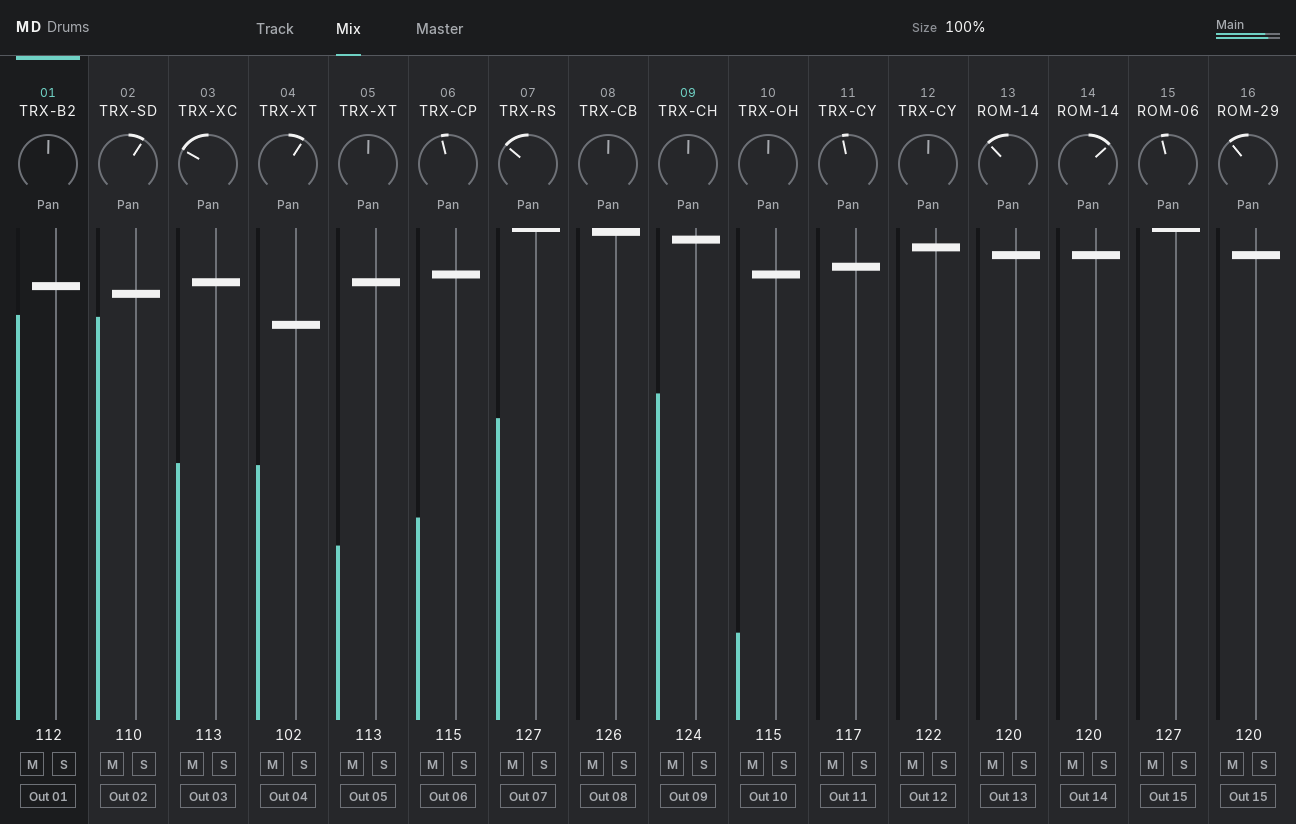
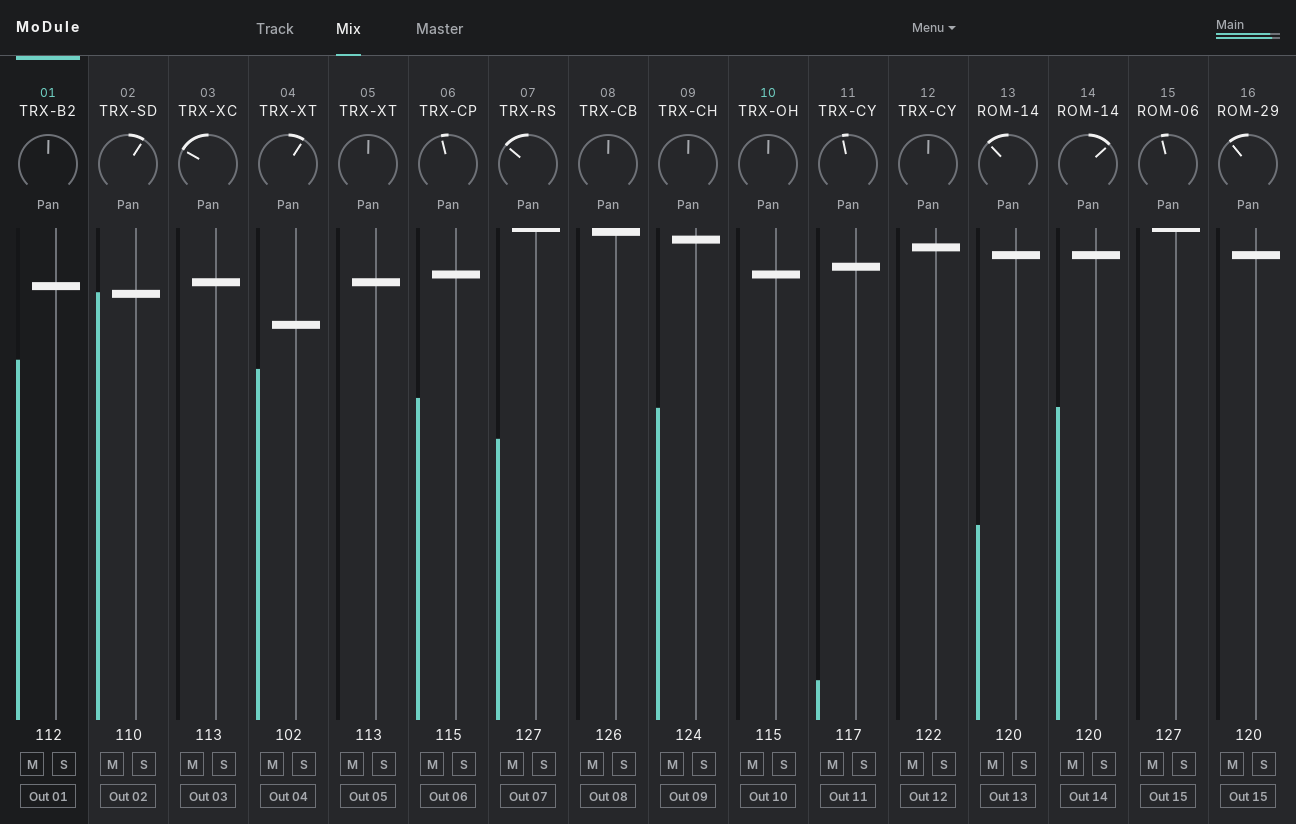
Make the site's screenshots from the editor as it plays, its LFO moving PTCH
The site and the README showed the editor of 2026-10-14, captured in Live: "MD Drums" and its Size
control, and Track 1's LFO at depth 0, so nothing showed what an LFO does to a knob. mdDrumsSkinTest
now has a showcase mode (MD_DRUMS_SKIN_SHOWCASE=<prefix>): instead of its checks, it gives Track 1's
LFO a depth of 80 before the editor opens, plays factory Kit 1 through the processor for four seconds
of a groove at 120 BPM with the display ticking at 60 Hz of the audio's time, and writes the Track,
Mix and Master tabs as PNGs at 1296 x 824. The Track tab shows PTCH underlined with its accent dot
where the engine plays it and the LFO screen's curve; the Mix tab its meters and scopes. The build's
version number is left off the pictures: the site says which version it offers.

docs/images holds the three, and md-drums-seq's strip and edit window, which its session captured
in Live 12.2.1.

Changed region(s): [[0.7099, 0.0303, 0.7407, 0.0607], [0.0309, 0.0303, 0.0617, 0.0607]]

diff --git a/source/elektron/md/mdDrumsPlugin/mdDrumsSkinTest.cpp b/source/elektron/md/mdDrumsPlugin/mdDrumsSkinTest.cpp
@@ -1408,6 +1408,73 @@ namespace
 		_f.showView("track");
 	}
 
+	// The site's screenshots: factory Kit 1 played by the processor for real, a groove of four seconds, Track 1's LFO
+	// moving its PTCH (its name underlined, the accent dot where the engine plays it), then the Track, Mix and Master
+	// tabs as the groove leaves them, right after a Hit of Track 1
+	void showcase(Fixture& _f, const std::string& _prefix)
+	{
+		constexpr double rate = 44100.0;
+		constexpr int block = 128;
+		auto& plugin = static_cast<juce::AudioProcessor&>(_f.processor);
+		plugin.prepareToPlay(rate, block);
+
+		// 120 BPM in 16ths; a Track per row, its steps and velocity
+		struct Row { int track; std::vector<int> steps; int velocity; };
+		const std::vector<Row> rows{
+			{0, {0, 4, 8, 11, 12}, 120}, {1, {4, 12}, 110}, {8, {0, 2, 4, 6, 8, 10, 12}, 90}, {9, {14}, 100},
+			{5, {12}, 100}, {6, {7, 15}, 90}, {3, {10}, 100}, {12, {3}, 110}, {13, {9}, 100}, {10, {0}, 80}};
+		constexpr double step = rate * 60.0 / 120.0 / 4.0;
+		constexpr int steps = 32;
+		struct Note { int64_t sample; int number; int velocity; };
+		std::vector<Note> notes;
+		for(int s = 0; s < steps; ++s)
+		{
+			for(const auto& row : rows)
+			{
+				if(std::find(row.steps.begin(), row.steps.end(), s % 16) != row.steps.end())
+					notes.push_back({static_cast<int64_t>(s * step), 36 + row.track, row.velocity});
+			}
+		}
+		// Up to just after the last bar's Hit of Track 1 on step 12: its Hit screen full, the meters lit
+		const auto samples = static_cast<int64_t>((16 + 12) * step + rate * 0.25);
+
+		juce::AudioBuffer<float> buffer(plugin.getTotalNumOutputChannels(), block);
+		juce::MidiBuffer midi;
+		size_t next = 0;
+		double untilFrame = 0.0;
+		for(int64_t position = 0; position < samples; position += block)
+		{
+			buffer.clear();
+			midi.clear();
+			for(; next < notes.size() && notes[next].sample < position + block; ++next)
+				midi.addEvent(juce::MidiMessage::noteOn(1, notes[next].number, static_cast<juce::uint8>(notes[next].velocity)),
+					static_cast<int>(notes[next].sample - position));
+			plugin.processBlock(buffer, midi);
+			// The display's ticks at 60 Hz of the audio's time
+			untilFrame -= block * 1000.0 / rate;
+			if(untilFrame <= 0.0)
+			{
+				_f.step(1000.0 / 60.0);
+				untilFrame += 1000.0 / 60.0;
+			}
+		}
+		// The site says which version it offers: the build's own number stays off the pictures
+		{
+			juceRmlUi::RmlInterfaces::ScopedAccess access(*_f.component);
+			_f.find("version")->SetInnerRML("");
+		}
+		for(const auto* view : {"track", "mix", "master"})
+		{
+			_f.showView(view);
+			for(int i = 0; i < 3; ++i)
+				_f.frame();
+			juce::FileOutputStream out{juce::File(juce::String(_prefix + view + ".png"))};
+			out.setPosition(0);
+			out.truncate();
+			juce::PNGImageFormat().writeImageToStream(_f.image, out);
+		}
+	}
+
 	void pictures(Fixture& _f, const std::string& _prefix)
 	{
 		const auto save = [&](const std::string& _name)
@@ -1444,12 +1511,25 @@ int main()
 			std::cout << "mdDrumsSkinTest: SKIP (no Machinedrum UW OS 1.63 flash image found)\n";
 			return 77;
 		}
+		// The site's screenshots instead of the checks: Track 1's LFO given depth before the editor opens, whose knobs
+		// take their values as they are made
+		const auto* shots = std::getenv("MD_DRUMS_SKIN_SHOWCASE");
+		const bool showcasing = shots && *shots;
+		if(showcasing)
+			uiSets(parameter(processor, "LFOD", 0), 80);
 		Fixture f(processor);
 		for(int i = 0; i < 4; ++i)
 			f.frame();
 		const auto size = f.component->getDocumentSize();
 		std::printf("document %dx%d, dp ratio %.2f\n", static_cast<int>(size.x), static_cast<int>(size.y), f.dp());
 		require(size.x == 1296 && size.y == 824, "the document is not 1296 x 824");
+
+		if(showcasing)
+		{
+			showcase(f, shots);
+			std::cout << "mdDrumsSkinTest: showcase written to " << shots << "track/mix/master.png\n";
+			return 0;
+		}
 
 		std::string failures;
 		for(const auto& [name, check] : std::vector<std::pair<std::string, void (*)(Fixture&)>>{

diff --git a/README.md b/README.md
@@ -4,7 +4,7 @@ Called MD Drums up to 0.1.1: same plug-in, same sets, and its Bank and flash ima
 
 The Elektron Machinedrum's own synthesis engines as a VST3 instrument, edited like Overbridge and played from your DAW.
 
-![MoDule in Ableton Live 12: the Track tab, factory Kit 1 playing](docs/images/md-drums-track.png)
+![MoDule's Track tab, factory Kit 1 playing, Track 1's LFO on its PTCH](docs/images/md-drums-track.png)
 
 **[Download the preview](https://github.com/c0remusic/MModule/releases)** · [Report a bug](https://github.com/c0remusic/MModule/issues)
 
